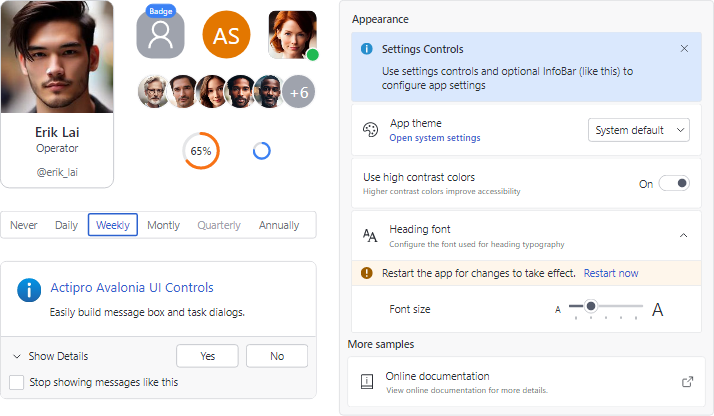
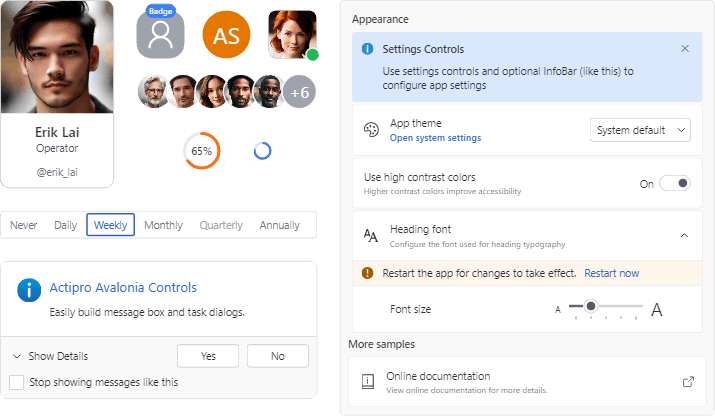
Updates for v25.2.3.

diff --git a/Samples/SampleBrowser/SampleBrowser.Common/ProductSamples/FundamentalsSamples/Controls/UserPromptIntro/MainControl.axaml.cs b/Samples/SampleBrowser/SampleBrowser.Common/ProductSamples/FundamentalsSamples/Controls/UserPromptIntro/MainControl.axaml.cs
@@ -24,13 +24,18 @@ namespace ActiproSoftware.ProductSamples.FundamentalsSamples.Controls.UserPrompt
 
 		private IImage? _basicFooterSampleImage;
 		private ICommand? _contextualHelpCommand;
-		private readonly bool _isDialogAllowed;
 		private bool _standardCheckBoxSampleIsChecked = false;
 
 		#region Property Definitions
 
 		public static readonly DirectProperty<MainControl, IImage?> BasicFooterSampleImageProperty
 			= AvaloniaProperty.RegisterDirect<MainControl, IImage?>(nameof(BasicFooterSampleImage), x => x.BasicFooterSampleImage);
+
+		public static readonly DirectProperty<MainControl, bool> IsDialogAllowedProperty
+			= AvaloniaProperty.RegisterDirect<MainControl, bool>(nameof(IsDialogAllowed), x => x.IsDialogAllowed);
+
+		public static readonly DirectProperty<MainControl, bool> IsMultiThreadAllowedProperty
+			= AvaloniaProperty.RegisterDirect<MainControl, bool>(nameof(IsMultiThreadAllowed), x => x.IsMultiThreadAllowed);
 
 		public static readonly StyledProperty<bool> ShowBasicFooterSampleImageProperty
 			= AvaloniaProperty.Register<MainControl, bool>(nameof(ShowBasicFooterSampleImage), defaultValue: true);
@@ -42,16 +47,15 @@ namespace ActiproSoftware.ProductSamples.FundamentalsSamples.Controls.UserPrompt
 		/////////////////////////////////////////////////////////////////////////////////////////////////////
 
 		public MainControl() {
+			// Indicate if dialogs are allowed on the platform
+			IsDialogAllowed = (Application.Current?.ApplicationLifetime is IClassicDesktopStyleApplicationLifetime);
+
+			// Indicate if multi-threading is allowed on the platform
+			IsMultiThreadAllowed = !OperatingSystem.IsBrowser();
+
 			InitializeComponent();
 
 			UpdateBasicFooterSampleImage();
-
-			// Indicate if dialogs are allowed on the platform
-			_isDialogAllowed = (Application.Current?.ApplicationLifetime is IClassicDesktopStyleApplicationLifetime);
-			customAppearanceDisplayModeWarning.IsVisible = !_isDialogAllowed;
-			displayModeWarning.IsVisible = !_isDialogAllowed;
-			dialogChromedDecorationsWarning.IsVisible = !_isDialogAllowed;
-			dialogChromedDecorationsShowHostedSampleButton.IsEnabled = _isDialogAllowed;
 		}
 
 		/////////////////////////////////////////////////////////////////////////////////////////////////////
@@ -126,6 +130,16 @@ namespace ActiproSoftware.ProductSamples.FundamentalsSamples.Controls.UserPrompt
 		/// </summary>
 		public ICommand ContextualHelpCommand
 			=> _contextualHelpCommand ??= new DelegateCommand<object?>(p => ShowContextualHelp(p));
+
+		/// <summary>
+		/// Indicates if the current platform supports showing dialogs.
+		/// </summary>
+		public bool IsDialogAllowed { get; }
+		
+		/// <summary>
+		/// Indicates if the current platform supports multi-threading.
+		/// </summary>
+		public bool IsMultiThreadAllowed { get; } // TODO:
 
 		protected override void OnPropertyChanged(AvaloniaPropertyChangedEventArgs change) {
 			if (change.Property == ShowBasicFooterSampleImageProperty)
@@ -212,7 +226,7 @@ namespace ActiproSoftware.ProductSamples.FundamentalsSamples.Controls.UserPrompt
 
 			// Prevent exception when requested Dialog mode on unsupported platforms
 			var displayMode = (UserPromptDisplayMode)customAppearanceDisplayModeSelection.SelectedValue!;
-			if ((displayMode == UserPromptDisplayMode.Dialog) && !_isDialogAllowed) {
+			if ((displayMode == UserPromptDisplayMode.Dialog) && !IsDialogAllowed) {
 				await UserPromptBuilder.Configure().ForDialogDisplayModeNotSupportedNotice().Show();
 				return;
 			}
@@ -440,7 +454,7 @@ namespace ActiproSoftware.ProductSamples.FundamentalsSamples.Controls.UserPrompt
 			//
 
 			// Prevent exception on unsupported platforms
-			if (!_isDialogAllowed) {
+			if (!IsDialogAllowed) {
 				await UserPromptBuilder.Configure().ForDialogDisplayModeNotSupportedNotice().Show();
 				return;
 			}
@@ -450,6 +464,7 @@ namespace ActiproSoftware.ProductSamples.FundamentalsSamples.Controls.UserPrompt
 				.WithStatusIcon(MessageBoxImage.Information)
 				.WithContent("Apply custom chrome to all or part of a dialog to match the desired application theme.")
 				.WithStandardButtons(MessageBoxButtons.YesNoCancel)
+				.WithCanResize(dialogChromedDecorationsResizableCheckBox.IsChecked == true)
 				.WithDialogChromedDecorations((ChromedDecorations)dialogChromedDecorationsSelection.SelectedValue!)
 				.Show();
 		}
@@ -460,7 +475,7 @@ namespace ActiproSoftware.ProductSamples.FundamentalsSamples.Controls.UserPrompt
 			//
 
 			// Prevent exception when requested Dialog mode on unsupported platforms
-			if (((UserPromptDisplayMode)displayModeSelection.SelectedValue! == UserPromptDisplayMode.Dialog) && !_isDialogAllowed) {
+			if (((UserPromptDisplayMode)displayModeSelection.SelectedValue! == UserPromptDisplayMode.Dialog) && !IsDialogAllowed) {
 				await UserPromptBuilder.Configure().ForDialogDisplayModeNotSupportedNotice().Show();
 				return;
 			}

diff --git a/Samples/SampleBrowser/SampleBrowser.Common/SampleBrowser/App.axaml.cs b/Samples/SampleBrowser/SampleBrowser.Common/SampleBrowser/App.axaml.cs
@@ -5,6 +5,7 @@ using LoggerFactory = ActiproSoftware.Logging.LoggerFactory;
 #endif
 
 using ActiproSoftware.Logging;
+using ActiproSoftware.Security;
 using ActiproSoftware.UI.Avalonia.Media;
 using Avalonia;
 using Avalonia.Controls.ApplicationLifetimes;
@@ -49,6 +50,14 @@ namespace ActiproSoftware.SampleBrowser {
 		/// Initializes the application.
 		/// </summary>
 		public override void Initialize() {
+			// Mark this project's assembly as trusted for dynamic loading of samples
+			TrustedCodeService.AddTrustedAssembly(Assembly.GetExecutingAssembly());
+			TrustedCodeService.TypeResolutionRequested += (sender, e) => {
+				// Some type names in deserialization scenarios may only include the pure assembly name
+				//   (no version or public key token) for context, so trust those types that are defined in this assembly
+				e.IsTrusted |= (e.TrustLevel == StringTypeNameTrustLevel.ConditionallyTrusted) && (e.AssemblyName == Assembly.GetExecutingAssembly().GetName().Name);
+			};
+
 			_logger?.LogInformation("Initializing app from XAML...");
 			AvaloniaXamlLoader.Load(this);
 

diff --git a/Samples/SampleBrowser/SampleBrowser.Common/SampleBrowser/ViewModels/ApplicationViewModel.cs b/Samples/SampleBrowser/SampleBrowser.Common/SampleBrowser/ViewModels/ApplicationViewModel.cs
@@ -1,3 +1,4 @@
+using ActiproSoftware.Security;
 using ActiproSoftware.UI.Avalonia.Controls;
 using ActiproSoftware.UI.Avalonia.Input;
 using ActiproSoftware.UI.Avalonia.Themes;
@@ -98,12 +99,13 @@ namespace ActiproSoftware.SampleBrowser {
 				if (typeName.StartsWith('/'))
 					typeName = $"ActiproSoftware{typeName}";
 				typeName = typeName.Replace('/', '.');
+				typeName += $", {typeof(ApplicationViewModel).Assembly.FullName}";
 
 				// Attempt to create an instance of a type
 				Control? control;
-				var type = Type.GetType(typeName);
+				var type = TrustedCodeService.Resolve(typeName, throwOnError: false);
 				if (type is not null) {
-					control = Activator.CreateInstance(type) as Control;
+					control = TrustedCodeService.CreateInstance(type) as Control;
 					return control;
 				}
 

diff --git a/Samples/SampleBrowser/SampleBrowser.Common/ProductSamples/DockingSamples/Demos/SimpleIde/MainControl.axaml.cs b/Samples/SampleBrowser/SampleBrowser.Common/ProductSamples/DockingSamples/Demos/SimpleIde/MainControl.axaml.cs
@@ -420,8 +420,6 @@ namespace ActiproSoftware.ProductSamples.DockingSamples.Demos.SimpleIde {
 			documentWindow.Activate();
 		}
 
-
-
 		/////////////////////////////////////////////////////////////////////////////////////////////////////
 		// PUBLIC PROCEDURES
 		/////////////////////////////////////////////////////////////////////////////////////////////////////

diff --git a/Documentation/topics/security.md b/Documentation/topics/security.md
@@ -1,0 +1,114 @@
+---
+title: "Security"
+page-title: "Security"
+order: 53
+---
+# Security
+
+## Security Practices
+
+For information about how Actipro develops, maintains, and secures its products, please see our company-wide [Security Practices Policy](https://www.actiprosoftware.com/company/policies/security-practices).
+
+That page outlines our secure development processes, vulnerability handling procedures, support period commitments, and other practices that help ensure the safety and reliability of our software.
+
+## Vulnerability Reporting and Security Advisories
+
+Security reporting for the Actipro @@PlatformName controls is managed through our public GitHub repository.
+
+You can find the product-specific instructions for reporting vulnerabilities and any published security advisories in the [Actipro @@PlatformName controls repository's Security page](https://github.com/Actipro/Avalonia-Controls/security), which serves as the central location for coordinated vulnerability disclosure for both the commercial Actipro @@PlatformName controls and any related open-source content.
+
+## **EU Cyber Resilience Act (CRA) Compliance**
+
+Actipro @@PlatformName controls are developed and maintained in accordance with the requirements of the EU Cyber Resilience Act (CRA). We follow a secure development lifecycle, provide a defined support period, publish vulnerability reporting instructions, and maintain the technical documentation and evidence required for CE marking under Module A (Internal Control).
+
+## Dynamic Code and Trusted Type Validation
+
+Some product features may attempt to dynamically create and use .NET types from a string type/assembly name.  In accordance with our secure-by-default design, types specified by string type/assembly names will be considered untrusted by default.
+
+All type loading in Actipro logic, like `Type.GetType` and `Activator.CreateInstance` calls, is performed in the [TrustedCodeService](xref:ActiproSoftware.Security.TrustedCodeService) class, which will not load untrusted types.
+
+> [!NOTE]
+> Types that are already accessible via a `Type` class instance are considered trusted, since application code external to Actipro logic has already loaded them into the trusted application domain.
+
+### Preemptively Trusting a Type
+
+The [TrustedCodeService](xref:ActiproSoftware.Security.TrustedCodeService) class has these methods for preemptively marking a string type/assembly name as trusted:
+
+- [AddTrustedAssembly](xref:ActiproSoftware.Security.TrustedCodeService.AddTrustedAssembly*) - Marks that all types within a specified `Assembly` are to be trusted.  This is a preferred option when there are multiple types within an assembly that are trusted.
+- [AddTrustedType](xref:ActiproSoftware.Security.TrustedCodeService.AddTrustedType*) - Marks that a specific `Type` should be trusted.
+
+### Dynamically Trusting a Type
+
+The [TypeResolutionRequested](xref:ActiproSoftware.Security.TrustedCodeService.TypeResolutionRequested) event is raised whenever a type load for a string type/assembly name is requested.  Its [TypeResolutionEventArgs](xref:ActiproSoftware.Security.TypeResolutionEventArgs) specify the assembly and type names.  The [IsTrusted](xref:ActiproSoftware.Security.TypeResolutionEventArgs.IsTrusted) property is initialized based on if the type is considered trusted, either from one of the trust methods described above or from a previous [TypeResolutionRequested](xref:ActiproSoftware.Security.TrustedCodeService.TypeResolutionRequested) event handler invocation where the type was flagged as trusted.
+
+#### Marking a Type As Trusted
+
+This code snippet demonstrates handling of the event to mark that a type should be trusted and subsequently loaded with a `Type.GetType(typeName)` call:
+
+```csharp
+using ActiproSoftware.Security;
+...
+// Application startup logic
+TrustedCodeService.TypeResolutionRequested += OnTrustedCodeServiceTypeResolutionRequested;
+...
+private void OnTrustedCodeServiceTypeResolutionRequested(object? sender, TypeResolutionEventArgs e) {
+	if (!e.IsTrusted) {
+		// Flag a specific class as trusted
+		if ((e.TypeName == "MyCompany.TrustedClass") && (e.AssemblyName == "MyApp, Version=1.0.0.0, Culture=neutral, PublicKeyToken=null"))
+			e.IsTrusted = true;
+	}
+}
+```
+
+> [!TIP]
+> Although this is NOT recommended, an application may reproduce the legacy behavior from before [TrustedCodeService](xref:ActiproSoftware.Security.TrustedCodeService) existed by handling the [TypeResolutionRequested](xref:ActiproSoftware.Security.TrustedCodeService.TypeResolutionRequested) event and always setting `e.IsTrusted = true`, effectively bypassing all type and assembly trust checks.
+
+#### Manual Type Loading
+
+In some cases, it may be preferable to manually load and provide an appropriate `Type` instance, which can be done as an alternative to setting the [TypeResolutionEventArgs](xref:ActiproSoftware.Security.TypeResolutionEventArgs).[IsTrusted](xref:ActiproSoftware.Security.TypeResolutionEventArgs.IsTrusted) property to `true`.  When the [ResolvedType](xref:ActiproSoftware.Security.TypeResolutionEventArgs.ResolvedType) property is set to a non-`null` instance, that `Type` will be directly returned by the [Resolve](xref:ActiproSoftware.Security.TrustedCodeService.Resolve*) event and no `Type.GetType(typeName)` call will be made in Actipro logic.
+
+This code snippet shows the concept of manually loading a resolved `Type` with a user-defined `ManuallyLoadType` method and returning the result:
+
+```csharp
+using ActiproSoftware.Security;
+...
+// Application startup logic
+TrustedCodeService.TypeResolutionRequested += OnTrustedCodeServiceTypeResolutionRequested;
+...
+private void OnTrustedCodeServiceTypeResolutionRequested(object? sender, TypeResolutionEventArgs e) {
+	if (!e.IsTrusted)
+		e.ResolvedType = ManuallyLoadType(e.AssemblyName, e.TypeName);
+}
+```
+
+### Assembly Name Matching Strategy
+
+The [AssemblyNameMatchingStrategy](xref:ActiproSoftware.Security.TrustedCodeService.AssemblyNameMatchingStrategy) property can be set to an [AssemblyNameMatchingStrategy](xref:ActiproSoftware.Security.AssemblyNameMatchingStrategy) enumeration value that determines how [TrustedCodeService](xref:ActiproSoftware.Security.TrustedCodeService) matches the assembly portion of a string type name with trusted assemblies.  Enumeration values include:
+
+- [FullName](xref:ActiproSoftware.Security.AssemblyNameMatchingStrategy.FullName) - The full assembly name (name, version, culture, and public key token) must match.  This is the default and most secure.
+- [NameAndPublicKey](xref:ActiproSoftware.Security.AssemblyNameMatchingStrategy.NameAndPublicKey) - Only the name and public key token are matched.  This allows the version to be ignored.
+- [NameOnly](xref:ActiproSoftware.Security.AssemblyNameMatchingStrategy.NameOnly) - Only the name is matched, which is insecure and possibly allows assembly spoofing.  This is not recommended for production usage.
+
+#### Avoiding NameOnly Usage
+
+As an example, assuming a string type name `"MyCompany.MyClass, MyApp"` is being resolved.  Since no matches can be made on version or public key token, only a setting of [NameOnly](xref:ActiproSoftware.Security.AssemblyNameMatchingStrategy.NameOnly) would trust the type.
+
+Instead of using the [NameOnly](xref:ActiproSoftware.Security.AssemblyNameMatchingStrategy.NameOnly) option, it is better to create a [TypeResolutionRequested](xref:ActiproSoftware.Security.TrustedCodeService.TypeResolutionRequested) event handler and add logic in there.  The [TrustLevel](xref:ActiproSoftware.Security.TypeResolutionEventArgs.TrustLevel) property will indicate the level of trust [TrustedCodeService](xref:ActiproSoftware.Security.TrustedCodeService) assigned to the type based on its configuration.
+
+Consider if this application startup code was added to an application named `MyApp`:
+
+```csharp
+using ActiproSoftware.Security;
+...
+// Application startup logic
+TrustedCodeService.AddTrustedAssembly(Assembly.GetExecutingAssembly());
+TrustedCodeService.TypeResolutionRequested += OnTrustedCodeServiceTypeResolutionRequested;
+...
+private void OnTrustedCodeServiceTypeResolutionRequested(object? sender, TypeResolutionEventArgs e) {
+	// Some type names in deserialization scenarios may only include the pure assembly name
+	//   (no version or public key token) for context, so trust those types that are defined in this assembly
+	e.IsTrusted |= (e.TrustLevel == StringTypeNameTrustLevel.ConditionallyTrusted) && (e.AssemblyName == Assembly.GetExecutingAssembly().GetName().Name);
+}
+```
+
+Again, using the example string type name, but with the default [AssemblyNameMatchingStrategy](xref:ActiproSoftware.Security.TrustedCodeService.AssemblyNameMatchingStrategy), the `e.TrustLevel` would be [ConditionallyTrusted](xref:ActiproSoftware.Security.StringTypeNameTrustLevel.ConditionallyTrusted) since the full assembly name couldn't match, but the pure assembly name did match a trusted assembly.  The event handler above verifies conditional trust and checks that the assembly name is the currently executing assembly (`MyApp`).  In that case, the type is marked as trusted.

diff --git a/Samples/SampleBrowser/SampleBrowser.Common/SampleBrowser/Documents/ReleaseHistories/v25.2.md b/Samples/SampleBrowser/SampleBrowser.Common/SampleBrowser/Documents/ReleaseHistories/v25.2.md
@@ -1,3 +1,33 @@
+# 3/13/2026 - v25.2.3
+
+## Bars
+- Updated various buttons to not take focus when clicked if focus is currently outside of the ribbon.
+- Updated button click handlers to perform InvocationFocusBehavior logic before processing the click.
+- Fixed an issue introduced in the previous build where RibbonWindow.Padding was being applied twice.
+- Fixed RibbonWindow showing chromed titlebar on Linux when the native titlebar was also displayed.
+## Docking
+- Updated the background rendering of tinted tabs in light themes.
+- Updated logic that handled AdvancedTabItem.IsSelected changes.
+- Fixed an issue where previously selected tabs may not always be reselected during layout deserialization.
+- Fixed an issue where altering DockingWindowsDragOverEventArgs.AllowedDockGuideKinds may not always show the proper dock guides.
+- Fixed an issue where double-clicking a ToolWindow titlebar was not being properly recognized.
+## Fundamentals
+- Updated resizable User Prompts with Full dialog chrome decorations to fallback to None on Linux since borders are required for resizing.
+- Updated the UserPromptExtensions.ForException extension method to not configure the prompt as resizable on Linux due to restrictions with dialog chrome decorations.
+- Fixed an issue where MultiColumnPanel was including invisible children in its layout calculations.
+## Themes
+- Added a new theme resource for edit control placeholder font style.
+- Updated the DataGrid theme to prevent the column header border from possibly disappearing when using star-sized columns.
+## Shared Library
+- Updated WindowTitleBar to work around scenarios in Windows 10 where the Window border may disappear.
+- Updated AnimatedExpanderDecorator to only animate when already loaded.
+- Fixed an issue where turning a pointer wheel over a control's popup could cause an ancestor ScrollViewer to scroll.
+- Fixed an issue where an extra OS-generated tooltip would display for the minimize and maximize caption buttons of WindowTitleBar on Windows OS.
+## Core Library
+- Added the TrustedCodeService class that manages dynamic loading of types in a secure-by-default manner. This change may be potentially breaking for certain rarely used features, so it's important to review the related documentation for details.
+
+---
+
 # 1/23/2026 - v25.2.2
 
 ## Bars
@@ -44,7 +74,6 @@
 - In WASM, disabled animations on several controls in scenarios where Avalonia doesn't sequence animations properly.
 
 ---
-
 
 # 8/25/2025 - v25.2.1
 
@@ -116,6 +145,5 @@
 - Updated WindowTitleBar to support Windows non-client hit-testing that is new with Avalonia 11.3.0.  Notably, this adds support for Snap Guides when hovering over the Maximize button.
 ## All
 - Updated the minimum Avalonia UI dependency from v11.2.0 to v11.3.0.
-
 
 ---

diff --git a/Documentation/topics/conversion/converting-to-v25-2-3.md b/Documentation/topics/conversion/converting-to-v25-2-3.md
@@ -1,0 +1,18 @@
+---
+title: "Converting to v25.2.3"
+page-title: "Converting to v25.2.3 - Conversion Notes"
+order: 94
+---
+# Converting to v25.2.3
+
+## Security-Related Improvements
+
+We've introduced the new [TrustedCodeService](xref:ActiproSoftware.Security.TrustedCodeService) class in this version as part of our secure-by-design initiative to protect your applications from potential security vulnerabilities related to dynamic type loading.  This service implements a secure-by-default model where types or their containing assemblies must be explicitly marked as trusted before they can be dynamically resolved or instantiated from string type names.  This prevents untrusted or malicious code from being loaded into your application through deserialization, configuration files, or other string-based type references.  This kind of dynamic type loading is used sparingly and only as needed in our products.
+
+> [!WARNING]
+> This is an important change that may require action on your part. If your application uses features that dynamically create types from string names, you may encounter `SecurityException` errors until you configure the [TrustedCodeService](xref:ActiproSoftware.Security.TrustedCodeService) appropriately per the instructions in the [Security](../security.md) topic.
+
+We recommend configuring the service during application startup to ensure seamless operation while maintaining robust security protections.
+
+Features that may use dynamic type loading are:
+- Docking/MDI - Deserialization of docking layouts when custom inherited [DocumentWindow](xref:@ActiproUIRoot.Controls.Docking.DocumentWindow) or [ToolWindow](xref:@ActiproUIRoot.Controls.Docking.ToolWindow) classes are used.

diff --git a/Documentation/topics/fundamentals/user-prompt/appearance.md b/Documentation/topics/fundamentals/user-prompt/appearance.md
@@ -130,6 +130,9 @@ When displayed as a dialog, parts of the [UserPromptWindow](xref:@ActiproUIRoot.
 > [!IMPORTANT]
 > Avalonia on Linux either requires all system decorations or none.  It is not possible to hide just the title bar and still keep the borders, so [ChromedDecorations](xref:@ActiproUIRoot.Controls.ChromedDecorations).[TitleBarOnly](xref:@ActiproUIRoot.Controls.ChromedDecorations.TitleBarOnly) is not supported on Linux.
 
+> [!WARNING]
+> A resizable user prompt requires borders for resizing and cannot support [Full](xref:@ActiproUIRoot.Controls.ChromedDecorations.Full) chromed decorations.  On Windows and Mac OS, the user prompt must fallback to showing the native window borders.  Since Linux cannot hide the title bar without also hiding the borders, a resizable user prompt on Linux will always fallback to having no chromed decorations.
+
 The change the global default value for [ChromedDecorations](xref:@ActiproUIRoot.Controls.ChromedDecorations), set [UserPromptBuilder](xref:@ActiproUIRoot.Controls.UserPromptBuilder).[DefaultDialogChromedDecorations](xref:@ActiproUIRoot.Controls.UserPromptBuilder.DefaultDialogChromedDecorations) to the desired value.
 
 ```csharp
@@ -154,6 +157,7 @@ await MessageBox.Show(
 		.WithDialogChromedDecorations(ChromedDecorations.None)
 	);
 ```
+
 }
 
 @if (wpf) {

diff --git a/Documentation/topics/docking/layout-features/layout-serialization.md b/Documentation/topics/docking/layout-features/layout-serialization.md
@@ -110,6 +110,9 @@ If the [DockSite](xref:@ActiproUIRoot.Controls.Docking.DockSite).[WindowsOpening
 
 When using a custom class that derives from `DocumentWindow` or `ToolWindow`, the properties can be assigned in the constructor of the class. In addition, a XAML file with code-behind can be leveraged to allow the window to be designed in the Visual Studio designer.
 
+> [!IMPORTANT]
+> Custom classes that derive from `DocumentWindow` or `ToolWindow` serialize their type and assembly name in string format for later restoration during deserialization.  Due to our secure-by-default design, resolution of string type names will fail trust checks and not be loaded without additional configuration and handling described in the [Security](../../security.md) topic.
+
 ## Keeping All Existing Documents Open
 
 When deserializing document layouts, all documents are closed and only those document windows that are listed in the layout data are re-opened.  This means that if a document was open prior to the layout deserialization, but it is not listed within the layout data, it will be closed (and destroyed if [DockSite](xref:@ActiproUIRoot.Controls.Docking.DockSite).[AreDocumentWindowsDestroyedOnClose](xref:@ActiproUIRoot.Controls.Docking.DockSite.AreDocumentWindowsDestroyedOnClose) is set).

diff --git a/Documentation/topics/fundamentals/user-prompt/display-and-results.md b/Documentation/topics/fundamentals/user-prompt/display-and-results.md
@@ -206,6 +206,11 @@ UserPromptBuilder.Configure()
 ```
 }
 
+@if (avalonia) {
+> [!WARNING]
+> The Linux operating system may not optimally support resizable prompts in all scenarios.  Prompts with expandable content, for example, will grow in height when expanded but will not shrink when collapsed.  Additionally, [ChromedDecorations](xref:@ActiproUIRoot.Controls.ChromedDecorations) cannot be used on Linux since it will remove the window borders used for resizing.
+}
+
 ## Configuring and Evaluating Results
 
 The [UserPromptControl](xref:@ActiproUIRoot.Controls.UserPromptControl).[Result](xref:@ActiproUIRoot.Controls.UserPromptControl.Result) property is used to read or write the user's response to a prompt and is typically only used when working with custom buttons.

diff --git a/Documentation/topics/conversion/index.md b/Documentation/topics/conversion/index.md
@@ -9,6 +9,7 @@ Occasionally during large updates to a product, some breaking changes are necess
 
 Read the following topics that are appropriate for your scenario if you are converting from an older version to the latest version.
 
+- [Converting to v25.2.3](converting-to-v25-2-3.md)
 - [Converting to v25.2.2](converting-to-v25-2-2.md)
 - [Converting to v25.2](converting-to-v25-2.md)
 - [Converting to v25.1](converting-to-v25-1.md)

diff --git a/Documentation/topics/shared/controls/hyperlink-textblock.md b/Documentation/topics/shared/controls/hyperlink-textblock.md
@@ -40,7 +40,7 @@ xmlns:actipro="http://schemas.actiprosoftware.com/avaloniaui"
 <!-- Used as an inline with other text -->
 <TextBlock>
 	<Run>Click </Run>
-	<InlineUIContainer>
+	<InlineUIContainer BaselineAlignment="TextBottom">
 		<actipro:HyperlinkTextBlock Click="OnHyperlinkTextBlockClicked">here</actipro:HyperlinkTextBlock>
 	</InlineUIContainer>
 	<Run> for more information</Run>
